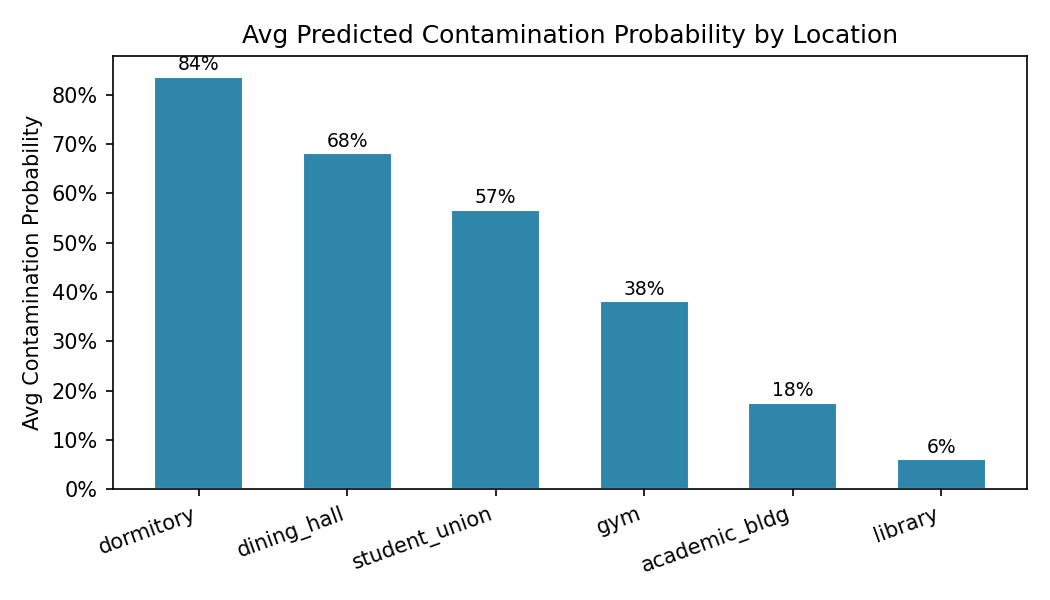
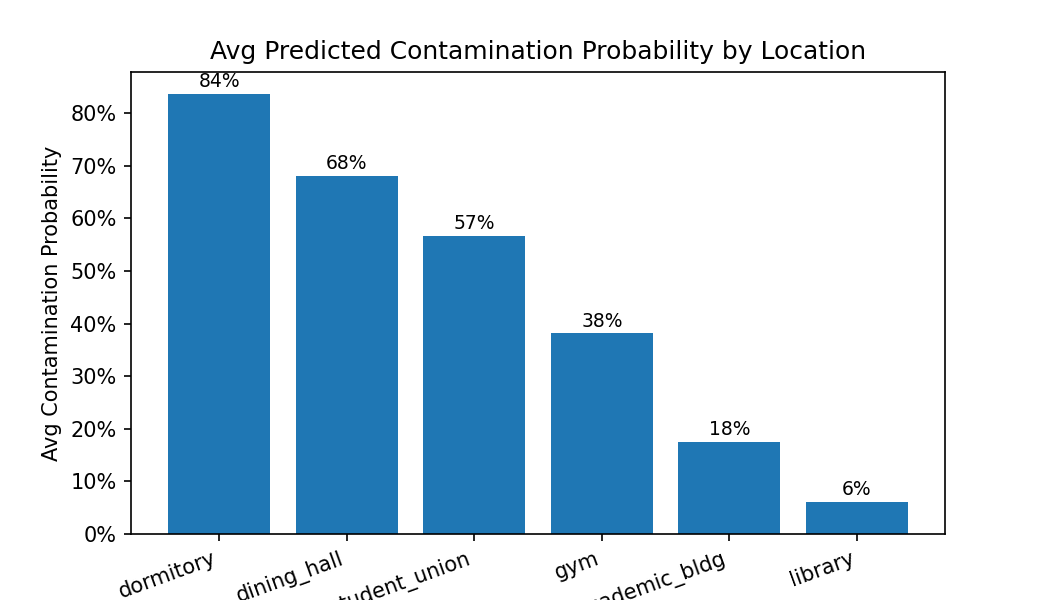
Updated code and model

diff --git a/Nick/generate_plots.py b/Nick/generate_plots.py
@@ -1,50 +1,64 @@
-"""
-generate_plots.py — save contamination model charts to ./plots/
-Run from the Nick/ directory: python generate_plots.py
-"""
-
 import os
 import numpy as np
 import pandas as pd
 import matplotlib.pyplot as plt
 import matplotlib.ticker as mticker
 
-os.makedirs("./plots", exist_ok=True)
 
-preds  = pd.read_csv("./data/contamination_predictions.csv", parse_dates=["date"])
-bins   = pd.read_csv("./data/bins.csv", parse_dates=["date"])
-merged = preds.merge(bins[["date", "bin_id", "contamination_rate"]], on=["date", "bin_id"])
-
-LOC_ORDER = preds.groupby("location_type")["predicted_contam_prob"].mean().sort_values(ascending=False).index.tolist()
+PLOT_DIR = './plots'
+DATA_DIR = './data'
 
 
-fig, ax = plt.subplots(figsize=(7, 4))
-vals = preds.groupby("location_type")["predicted_contam_prob"].mean().reindex(LOC_ORDER)
-bars = ax.bar(vals.index, vals.values, color="#2E86AB", edgecolor="white", width=0.6)
-ax.yaxis.set_major_formatter(mticker.PercentFormatter(xmax=1))
-ax.set_title("Avg Predicted Contamination Probability by Location", fontsize=12)
-ax.set_ylabel("Avg Contamination Probability")
-for bar, v in zip(bars, vals.values):
-    ax.text(bar.get_x() + bar.get_width() / 2, v + 0.005, f"{v:.0%}", ha="center", va="bottom", fontsize=9)
-plt.xticks(rotation=20, ha="right")
-plt.tight_layout()
-plt.savefig("./plots/contam_by_location.png", dpi=150)
-plt.close()
-print("Saved: contam_by_location.png")
+def get_parts() -> tuple[list, list, list]:
+    try:
+        preds  = pd.read_csv(DATA_DIR + "/contamination_predictions.csv", parse_dates=["date"])
+        bins   = pd.read_csv(DATA_DIR + "/bins.csv", parse_dates=["date"])
+        merged = preds.merge(bins[["date", "bin_id", "contamination_rate"]], on=["date", "bin_id"])
+
+        return preds, merged, preds.groupby("location_type")["predicted_contam_prob"].mean().sort_values(ascending=False).index.tolist()
+    except Exception as e:
+        print(f"Error getting location order: {e}")
+        return [], [], []
 
 
-fig, ax = plt.subplots(figsize=(5, 5))
-sample = merged.sample(min(3000, len(merged)), random_state=42)
-ax.scatter(sample["contamination_rate"], sample["predicted_contam_rate"],
-           alpha=0.2, s=8, color="#2E86AB")
-ax.plot([0, 1], [0, 1], "r--", lw=1, label="Perfect prediction")
-ax.set_xlabel("Actual Contamination Rate")
-ax.set_ylabel("Predicted Contamination Rate")
-ax.set_title("Predicted vs Actual Contamination Rate", fontsize=12)
-ax.legend()
-plt.tight_layout()
-plt.savefig("./plots/predicted_vs_actual.png", dpi=150)
-plt.close()
-print("Saved: predicted_vs_actual.png")
+def generate_contam_loc_graph(loc_order: list, preds: list) -> None:
+    fig, ax = plt.subplots(figsize=(7, 4))
+    vals = preds.groupby("location_type")["predicted_contam_prob"].mean().reindex(loc_order)
+    bars = ax.bar(vals.index, vals.values)
 
-print("\nDone.")
+    ax.yaxis.set_major_formatter(mticker.PercentFormatter(xmax=1))
+    ax.set_title("Avg Predicted Contamination Probability by Location", fontsize=12)
+    ax.set_ylabel("Avg Contamination Probability")
+
+    for bar, v in zip(bars, vals.values):
+        ax.text(bar.get_x() + bar.get_width() / 2, v + 0.005, f"{v:.0%}", ha="center", va="bottom", fontsize=9)
+    
+    plt.xticks(rotation=20, ha="right")
+    plt.savefig("./plots/contam_by_location.png", dpi=150)
+    plt.close()
+    print("Saved: contam_by_location.png")
+
+
+def generate_pred_graph(mreged: list) -> None:
+    fig, ax = plt.subplots(figsize=(5, 5))
+    sample = merged.sample(min(3000, len(merged)), random_state=42)
+    
+    ax.scatter(sample["contamination_rate"], sample["predicted_contam_rate"],alpha=0.2, s=8)
+    
+    ax.plot([0, 1], [0, 1], "r--", label="Perfect prediction")
+    ax.set_xlabel("Actual Contamination Rate")
+    ax.set_ylabel("Predicted Contamination Rate")
+    ax.set_title("Predicted vs Actual Contamination Rate", fontsize=12)
+    ax.legend()
+    plt.savefig("./plots/predicted_vs_actual.png", dpi=150)
+    plt.close()
+    print("Saved: predicted_vs_actual.png")
+
+
+if __name__ == "__main__":
+    if not os.path.exists(PLOT_DIR):
+        os.makedirs(PLOT_DIR)
+    
+    preds, merged, loc_order = get_parts()
+    generate_contam_loc_graph(loc_order, preds)
+    generate_pred_graph(merged)

diff --git a/Nick/dataset.py b/Nick/dataset.py
@@ -14,7 +14,7 @@ LOC_COMMODITY_MAP = {
 }
 
 
-def load_baselines(fao_path, unep_path):
+def load_baselines(fao_path, unep_path) -> dict[str, dict]:
     fao = pd.read_csv(fao_path)
     unep = pd.read_csv(unep_path)
 
@@ -110,7 +110,7 @@ def build_dataset(locations, n_days=365, start=datetime(2018, 1, 1)):
     return pd.DataFrame(records)
 
 
-def engineer_features(df):
+def engineer_features(df) -> dict:
     df["dow_sin"] = np.sin(2 * np.pi * df["day_of_week"] / 7)
     df["dow_cos"] = np.cos(2 * np.pi * df["day_of_week"] / 7)
     df["month_sin"] = np.sin(2 * np.pi * df["month"] / 12)
@@ -130,8 +130,6 @@ if __name__ == "__main__":
     df = build_dataset(locations)
     df = engineer_features(df)
 
-    print(f"Dataset: {df.shape[0]:,} rows x {df.shape[1]} columns")
-    print(f"Contamination prevalence: {df['is_contaminated'].mean():.1%}")
-
     df.to_csv("./data/bins.csv", index=False)
     print("Saved to ./data/bins.csv")
+    
